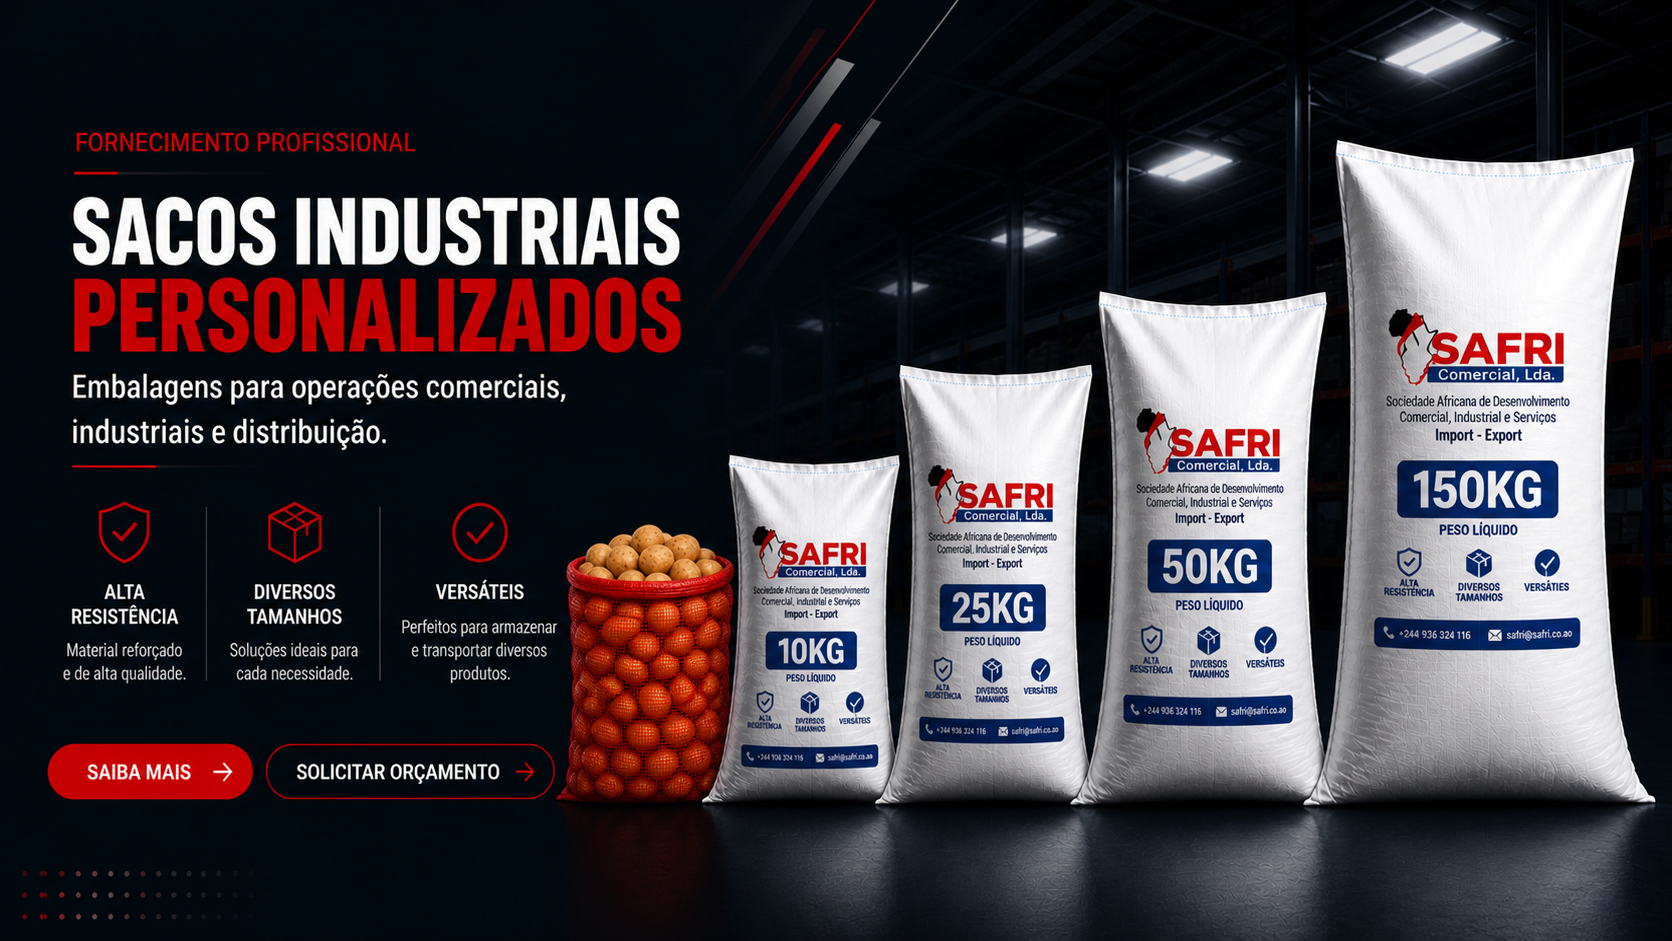
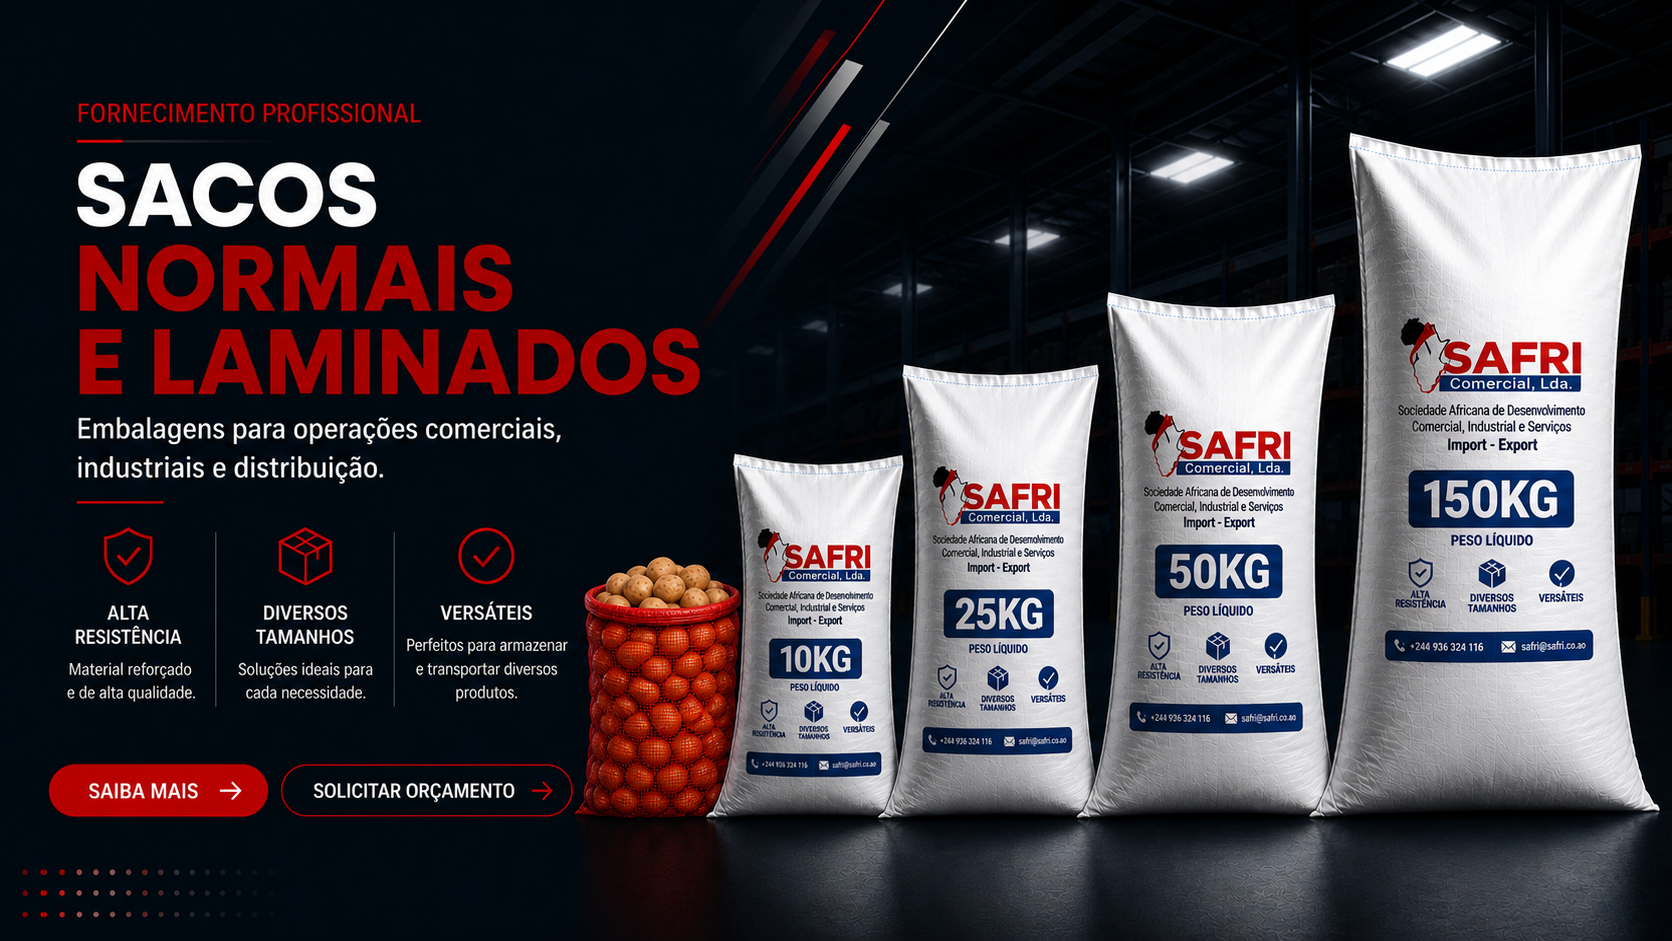
FIX: Atualização de categorias

diff --git a/components/loja/layout/category-menu.tsx b/components/loja/layout/category-menu.tsx
@@ -26,18 +26,18 @@ const categories: Category[] = [
     whatsappText: "Olá, gostaria de saber mais sobre todos os produtos da loja.",
   },
   {
-    name: "Sacos Laminados",
+    name: "Sacos Normais e Laminados",
     image: "/images/categories/categoria1.png",
     whatsappText: "Olá, gostaria de solicitar informações sobre Sacos Laminados.",
   },
   {
-    name: "Sacos Personalizados",
+    name: "Sacos Normais e Laminados",
     image: "/images/categories/categoria3.png",
     whatsappText:
       "Olá, gostaria de solicitar informações sobre Sacos Personalizados.",
   },
   {
-    name: "Sacos de Batata",
+    name: "Sacos de Rafia",
     image: "/images/categories/categoria2.png",
     whatsappText: "Olá, gostaria de solicitar informações sobre Sacos de Batata.",
   },

diff --git a/lib/products.ts b/lib/products.ts
@@ -57,7 +57,7 @@ export const products:Product[]=[
 {
 id:"saco-rafia-25",
 
-name:"Sacos",
+name:"Saco Normais e Laminado",
 
 slug:"saco-rafia-25kg",
 
@@ -89,7 +89,7 @@ specs:[
 {
 id:"saco-rafia-50",
 
-name:"Sacos",
+name:"Saco Normais e Laminado",
 
 slug:"saco-rafia-50kg",
 
@@ -102,7 +102,7 @@ img("sacola2.png")
 ],
 
 description:
-"Ideal para batata, frutas, e frãos.",
+"",
 
 variants:[
 {name:"50kg",value:"50kg"},
@@ -152,8 +152,8 @@ category:"sacos",
 
 images:[
 img("saco4.png"),
-img("sacola1.png"),
-img("sacola2.png")
+img("saco3.png"),
+img("saco2.png")
 ],
 
 description:
